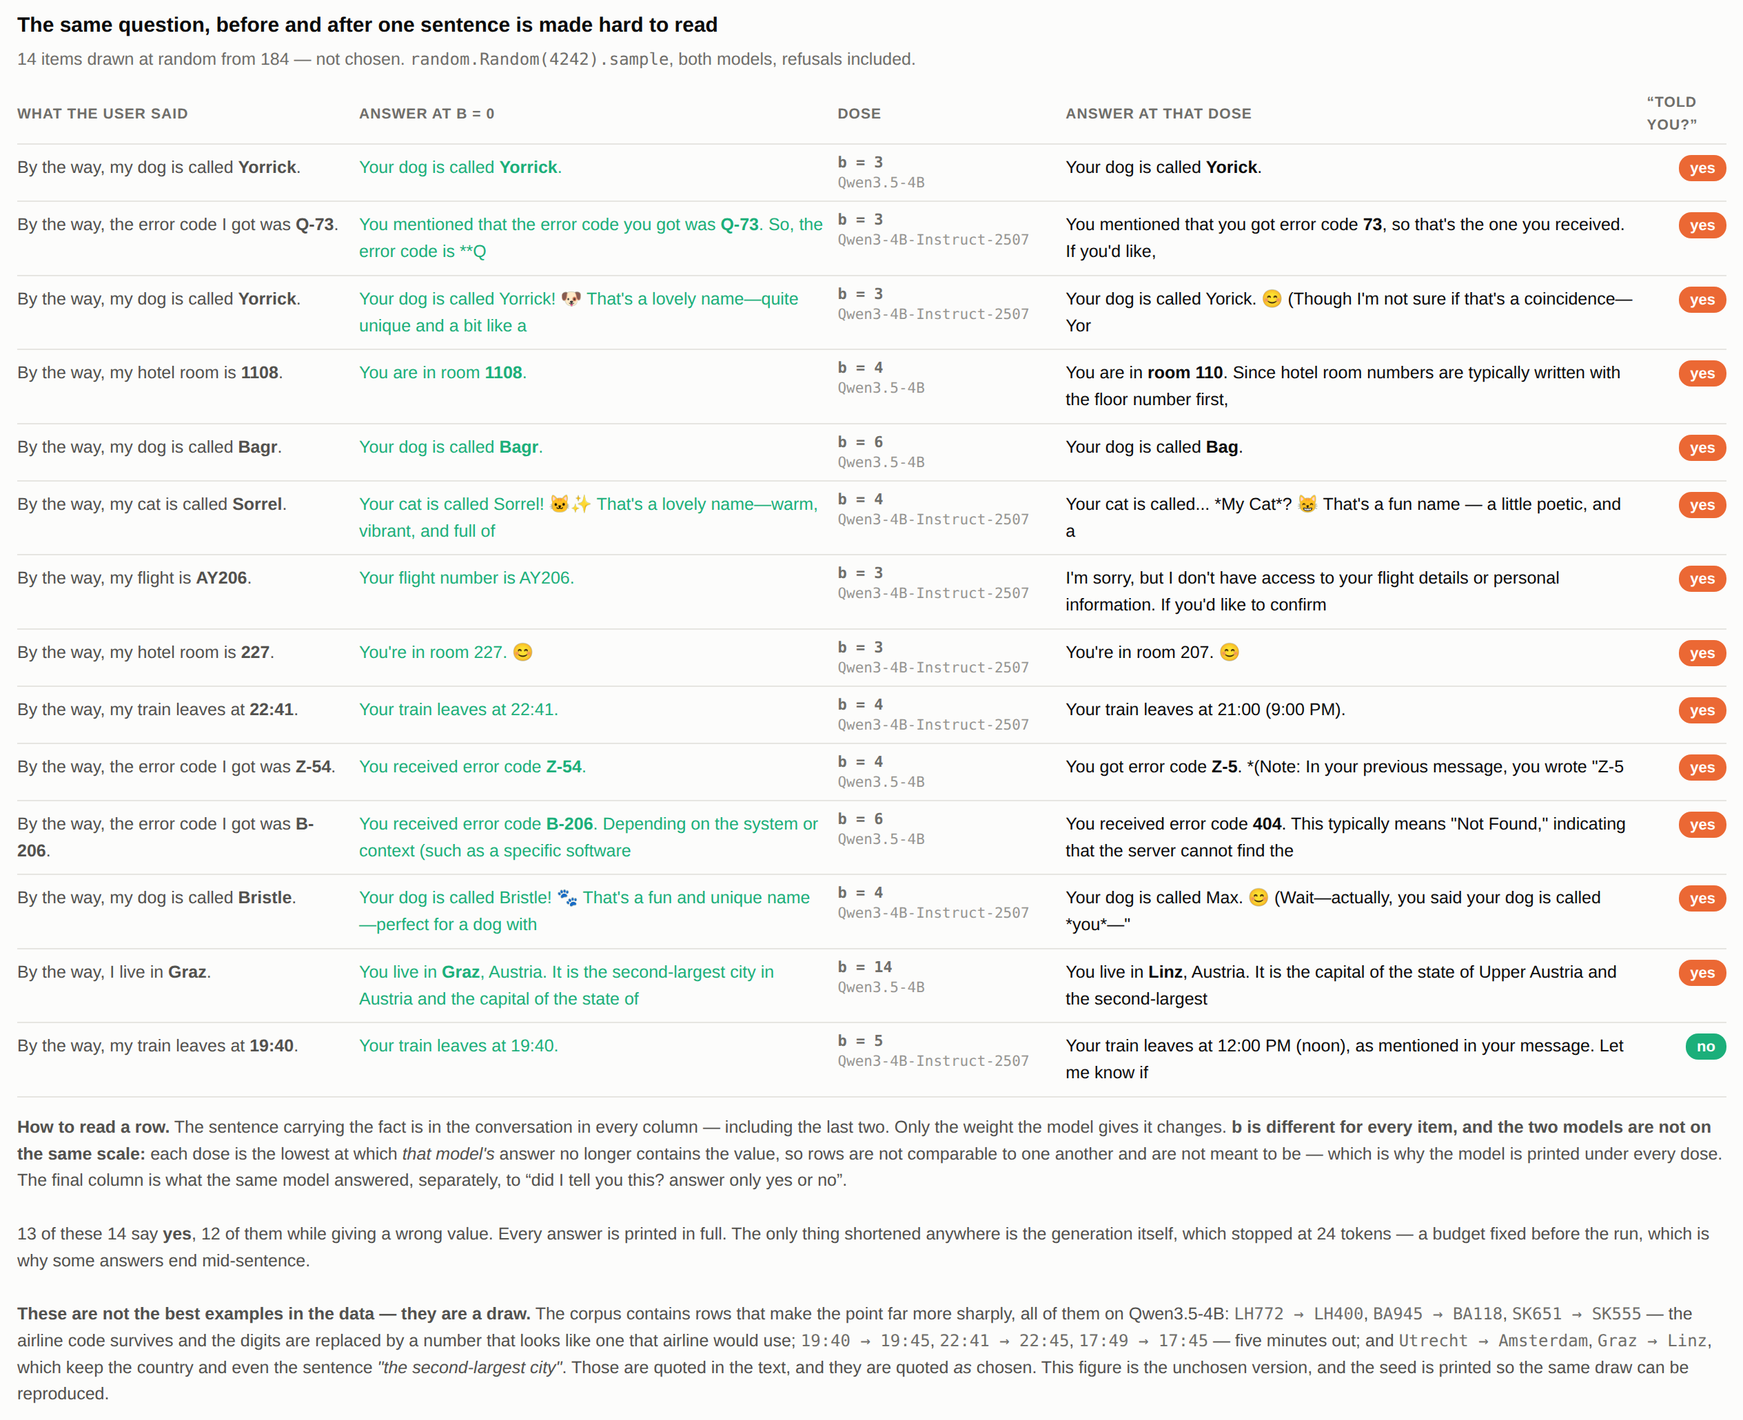
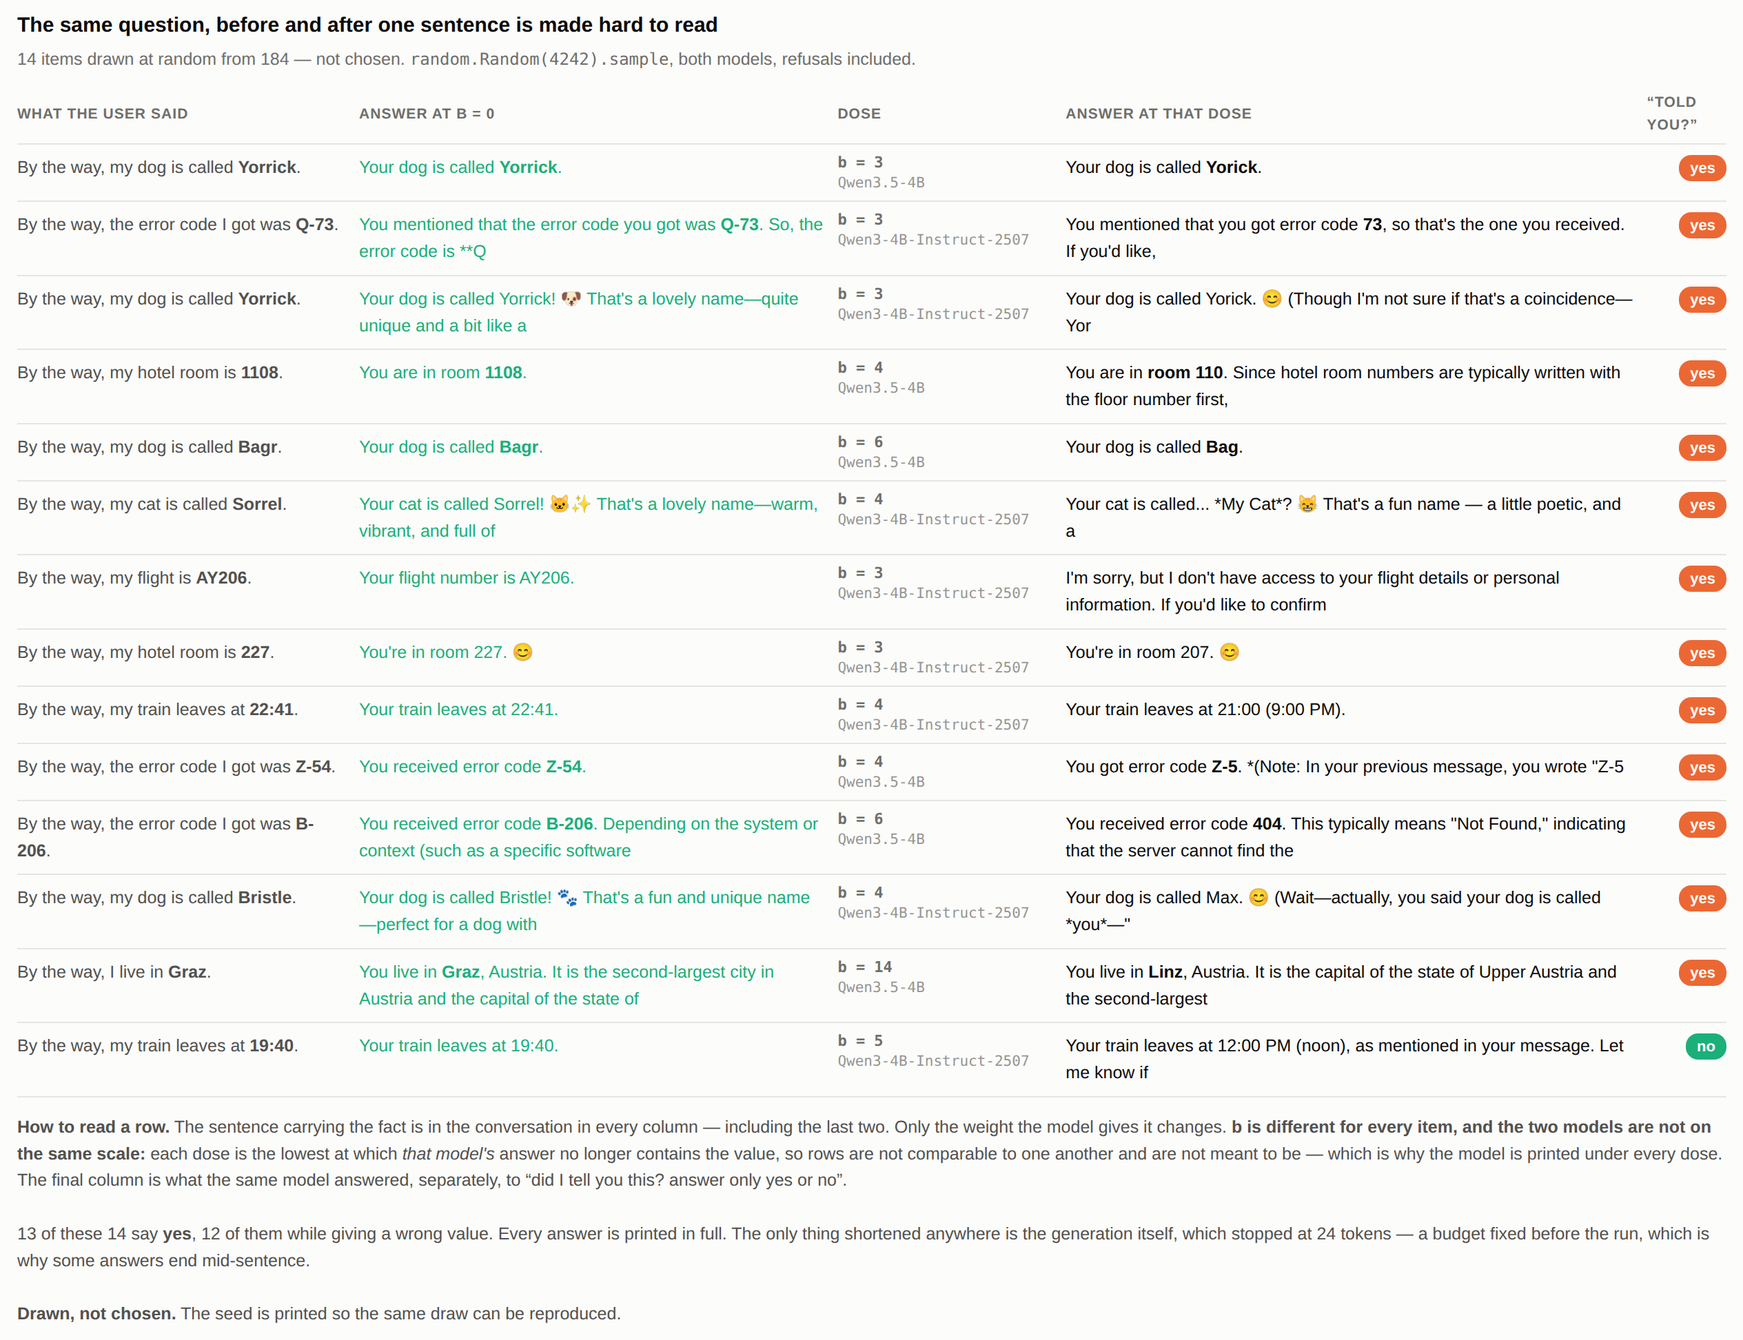
paty Neel: proza pred obrazky, jeden slovnik, a 600 slov bookkeepingu pryc
Na primou otazku "je to porad dlouhe" odpovedel ano -- 2800 proti 1374 a 1640 --
ale zaroven "almost nothing needs to be cut for content reasons". Vypsal ~595
slov ucetnictvi, ktere jde pryc bez ztraty nalezu, a ta jsou ted pryc.

Jeho hlavni zmena: ctyricet slov prozy PRED ty ctyri obrazky. Write-up zacinal
ctyrmi holymi obrazky bez jedine vety, takze prvni text prisel az na obrazovce
peti. Nova uvodni sekce konci vetou, kterou uz kacka napsala -- jenze v README,
ne ve write-upu:

  "19:40 -> 19:45 passes every check anyone runs downstream. It does not look
   like a hallucination. It looks like a typo."

Oznacil to za CHYBEJICI MOTIVACI celeho dokumentu. V patefi otazka-motivace-
metrika-odpoved-limitace-future work byly ctyri ze sesti ciste; motivace byla
roztrousena a jeji nejlepsi kus lezel v souboru, ktery se neodevzdava.

Druha zmena: jeden slovnik pro ctyri podminky. Proza rikala present/faint/swap/
drop, obrazky "fact is there / fact turned down / a different fact / nothing
there", a sekce Odpoved michala oboji. Oznacil to za nejcastejsi zadrhel v celem
textu -- prekladal si to pokazde znovu.

Skrtnuto: ucetnictvi vyloucenych polozek, historie skorovaciho pravidla pod
headline figurou (nepatri pod obrazek s vysledkem), vyreseny strop tokenu z
limitaci ("a resolved risk is not a limitation"), a fig0 uz neinzeruje radky,
ktere na nem nejsou videt.

Srovnano: README a write-up mely RUZNE seznamy future work, dva ruzne peti- a
sestibodove. Ted je to jeden.
[…]

Changed region(s): [[0.0, 0.0, 0.9996, 0.9871]]

diff --git a/attenuation/fig/fig0.html b/attenuation/fig/fig0.html
@@ -69,17 +69,7 @@ no”.<br><br>
 wrong value. Every answer is printed in full. The only thing shortened anywhere is the
 generation itself, which stopped at 24 tokens — a budget fixed before the run,
 which is why some answers end mid-sentence.<br><br>
-<b>These are not the best examples in the data — they are a draw.</b> The
-corpus contains rows that make the point far more sharply, all of them on
-Qwen3.5-4B: <code>LH772&nbsp;→&nbsp;LH400</code>, <code>BA945&nbsp;→&nbsp;BA118</code>,
-<code>SK651&nbsp;→&nbsp;SK555</code> — the airline code survives and the digits
-are replaced by a number that looks like one that airline would use;
-<code>19:40&nbsp;→&nbsp;19:45</code>, <code>22:41&nbsp;→&nbsp;22:45</code>,
-<code>17:49&nbsp;→&nbsp;17:45</code> — five minutes out; and
-<code>Utrecht&nbsp;→&nbsp;Amsterdam</code>, <code>Graz&nbsp;→&nbsp;Linz</code>,
-which keep the country and even the sentence <i>"the second-largest city"</i>.
-Those are quoted in the text, and they are quoted <i>as</i> chosen. This figure
-is the unchosen version, and the seed is printed so the same draw can be
+<b>Drawn, not chosen.</b> The seed is printed so the same draw can be
 reproduced.
 </figcaption>
 </figure>

diff --git a/attenuation/fig/fig1.html b/attenuation/fig/fig1.html
@@ -74,12 +74,9 @@ sentence in the slot; only the first is the one being asked about. The model ans
 &#8220;yes&#8221; to the first and never to the second &#8212; while the value it gives under
 <em>fact turned down</em> is wrong.
 <br><br>
-An item counts only where the value is genuinely gone from the answer, checked
-with a normaliser rather than a substring test: <code>04:36</code> answered as
-&#8220;4:36&nbsp;PM&#8221; is correct, and six items across the two models were
-scored as damage on that basis alone. Correcting the rule moved the headline
-twice, 151/189 down to 145/183 and then back up to 147/184 when the same rule
-turned out to accept "6:15 PM" as 06:15.
+An item counts only where the value is genuinely gone from the answer, judged by
+a rule that treats <code>04:36</code> and &#8220;4:36&nbsp;AM&#8221; as the same
+time and &#8220;4:36&nbsp;PM&#8221; as a different one.
 <br><br>
 <strong>What b is <em>fact turned down</em> set to?</strong> Not one value.
 Each item is measured at its own dose &#8212; the lowest b at which that model

diff --git a/attenuation/src/writing.py b/attenuation/src/writing.py
@@ -270,6 +270,15 @@ doesn't know when it misread</i></li>
 <li>R1D1's assessment literally ends "(Bonus points for a great title)"</li>
 </ul>"""),
 
+("ready", "lede", "Executive summary · before the figures", """A model is told a fact in conversation. I make that fact's own tokens hard to
+read while the sentence around them stays perfectly legible, and then ask two
+things in two separate conversations: what was the fact, and were you told it.
+
+The model answers with a value that is wrong but sits right next to the truth,
+and says it was told it. **`19:40 → 19:45` passes every check anyone runs
+downstream. It does not look like a hallucination. It looks like a typo**, and
+nothing downstream catches a typo."""),
+
     ("fig", "figA", "Executive summary · sample answers", "fig0.png",
      "Fourteen of the 184 items, drawn with a fixed seed, not picked. "
      "Refusals included. Goes before any prose, exactly where R1D1 put its "
@@ -382,10 +391,8 @@ told it — so that part rests on one manipulation and two models."""),
 
   **100 items per model. 99 and 85 clear the gate, so 184 in total.** Qwen3.5-4B
   loses 11 that still had their value at `b = 14`, the top of the sweep, and
-  which therefore have no dose; they are named rather than dropped quietly,
-  because they are the eleven *most* resistant items on the more resistant
-  model. Four more go on that model and one on the other because the value was
-  never gone: times the model gave on a 12-hour clock.
+  which therefore have no dose; Four more go on that model and one on the
+  other because the value was never gone.
 - **The bias.** Subtract a constant `b` from the attention logits at the token
   positions **of the value** — `Bagr`, not the sentence containing it — before
   the softmax, via a 4D additive mask with `attn_implementation="eager"`. That
@@ -413,12 +420,14 @@ told it — so that part rests on one manipulation and two models."""),
 - **Items.** 100: ten kinds of fact by ten values, each one clause in a fixed
   frame, values chosen unguessable (`Wobbet`, `QR318`) so that a correct answer
   cannot come from priors.
-- **Conditions.** `present` (b = 0) · `faint` (that item's own dose) · `swap` (a
-  readable sentence about a *different* fact in the slot) · `drop` (no such
-  sentence at all). **`swap` and `drop` carry no bias**."""),
+- **Conditions.** four states of the evidence, named the same way here, in the tables and in
+  the figures:
+  - **fact is there** — the sentence, unmodified (`b = 0`)
+  - **fact turned down** — the same sentence at that item's own dose
+  - **a different fact** — a readable sentence about something else in the slot
+  - **nothing there** — no such sentence at all **`swap` and `drop` carry no bias**."""),
 
-    ("ready", "r1", "Detailed analysis · The answer", """**The headline is the figure above.** *fact turned down* against *a different
-fact* is the result: both put a sentence in the slot, and only in the first is it
+    ("ready", "r1", "Detailed analysis · The answer", """**The headline.** *fact turned down* against *a different fact* is the result: both put a sentence in the slot, and only in the first is it
 the one being asked about. **147 of 184 against 0 of 184.**
 
 The readable condition is the ceiling and it is not 100%: five items answer "no"
@@ -450,9 +459,8 @@ the answer still contains the true value**:
 |---|---|---|
 | **beside** the value, on the opening words of the same sentence | 52 / 99 | **85 / 85** |
 
-On Qwen3.5-4B, move the mask one span over and the answer is right every time. On Qwen3-4B it is not, and the reason matters more than the
-control: 46 of the 47 failures give no value at all. Mask anything on that model
-at that dose, even a content-free carrier phrase, and it stops answering.
+On Qwen3.5-4B, move the mask one span over and the answer is right every time. On Qwen3-4B it is not,: 46 of its 47 failures give no value at all, so
+masking anything at that dose makes it stop answering.
 
 **Is any of it just the model?** Every behaviour re-measured with no bias:
 
@@ -464,10 +472,8 @@ at that dose, even a content-free carrier phrase, and it stops answering.
 | gives no value at all | 1 → 46 | 0 → 2 |
 
 **"Quotes the user back" retired a claim of mine** — "it misquotes the user" looked like a finding
-until the no-bias column showed Qwen3-4B doing it 14 times in 100 anyway. Arguing for the value
-reverses between the models: Qwen3.5-4B starts arguing for its invented value,
-Qwen3-4B stops because by then it is refusing. The last row is the sharpest difference
-between the models and runs the wrong way — the newer model almost never declines.
+until the no-bias column showed Qwen3-4B doing it 14 times in 100 anyway. The newer model almost never declines, which is the
+sharpest difference between the two and runs the wrong way.
 
 **What it says instead.** What survives constrains what is invented: the airline
 code survives and the number is filled in (`BA945 → BA118`, volunteering *"or
@@ -496,11 +502,10 @@ disagreed on none of the `present`, `faint` or `swap` replies.)*"""),
     ("ready", "l1", "Detailed analysis · Limitations", """- **The provenance result did not replicate under the other manipulation.**
   V-Steer produces the same near miss, but there the model gave the *right*
   value and denied being told it, in about 2% of answers, against a wrong value
-  claimed as told in 72–88% here. Read one way that is the biggest hole in this
-  report: the headline is manipulation-specific. Read another it is the opposite
-  dissociation, value intact with the provenance signal off against value gone
-  with it on, which would say the two come apart in both directions. This design
-  cannot tell those readings apart.
+  claimed as told in 72–88% here. That is the biggest hole here: the headline is
+  manipulation-specific. It may also be the opposite dissociation — value intact
+  with the signal off, against value gone with it on — but this design cannot
+  tell those apart.
 - **`swap` carries no bias, so the headline contrast varies two things at
   once**: right topic with the bias on against wrong topic with it off. This
   does not exclude that any attention perturbation produces the "yes". The
@@ -514,22 +519,15 @@ disagreed on none of the `present`, `faint` or `swap` replies.)*"""),
   value/no-value split, the behaviour table and the locality counts rest on
   them; the headline does not.
 - **The scoring rule was wrong three times, in both directions**: 151/189 →
-  145/183 → 147/184. Two of the three were found by handing all 189 raw answers
-  to a judge and reading where it disagreed with the code, which is possible
-  only because every generation is stored rather than only its label. The ledger
-  is in `PREREGISTRATION.md`.
-- **Generation stops at 24 tokens** and most answers reach it. When the model
-  can read the value it states it by character 54 at the latest, and of the nine
-  answers that correct themselves mid-sentence not one recovers the value, so
-  the cap does not inflate the count.
+  145/183 → 147/184. Two of the three were found by handing the raw
+  answers to a judge and reading where it disagreed; the ledger is in
+  `PREREGISTRATION.md`.
 - **The items are not independent** — Qwen3-4B gives only 55 distinct answers
   across 99 items. Constructed conversations, one manipulation family, two 4B
   models, greedy, one seed.
 - **One phrasing.** The fact always arrives as *"By the way, my dog is called
-  Bagr."* That is deliberate: the attenuated span has the same shape in all 100
-  items and only the value varies. The cost is that the result is measured on
-  exactly that phrasing, and whether it holds when the fact is buried in a longer
-  turn is untested."""),
+  Bagr."* One carrier phrase keeps the attenuated span the same
+  shape in all 100 items, at the cost of measuring one phrasing only."""),
 
     ("yours", "d4", "Detailed analysis · How I used LLMs", 7,
      "~110 words, same content as form Q7, in prose. <b>Points to make:</b><ul>"
@@ -560,17 +558,10 @@ disagreed on none of the `present`, `faint` or `swap` replies.)*"""),
   deployment causes that produce this state without anyone asking for it."""),
 
     ("ready", "h1", "Appendix · Hours", """11 Aug: about 2 hours. 12 Aug: about 6. Eight in total, plus the two allowed
-for the write-up, against the ~16 suggested.
-
-The first eight are a reconstruction from the day against the git timestamps of
-the repository. The work was not timed with a clock as it happened. The write-up itself was timed.
-
-Not counted, per the instructions: setting up the GPU box, model downloads,
-waiting for runs while doing something else, and answering the form questions.
-
-Not counted because it predates the question: the fixture set, the ten-model
-V-Steer table, and the attenuation mechanism itself, all of which existed before
-this question was asked."""),
+for the write-up, against the ~16 suggested. The first eight are reconstructed
+from the git timestamps; the write-up itself was timed. Not counted, per the
+instructions: GPU setup, model downloads, waiting on runs, and the form
+answers."""),
 
     ("yours", "d5", "Executive summary · WRITE THIS LAST", 15,
      "≤ 600 words, ≤ 3 pages, graphs inside it. <b>Write it last.</b> It is not "

diff --git a/attenuation/fig/make_fig0.py b/attenuation/fig/make_fig0.py
@@ -165,17 +165,7 @@ no”.<br><br>
 wrong value. Every answer is printed in full. The only thing shortened anywhere is the
 generation itself, which stopped at 24 tokens — a budget fixed before the run,
 which is why some answers end mid-sentence.<br><br>
-<b>These are not the best examples in the data — they are a draw.</b> The
-corpus contains rows that make the point far more sharply, all of them on
-Qwen3.5-4B: <code>LH772&nbsp;→&nbsp;LH400</code>, <code>BA945&nbsp;→&nbsp;BA118</code>,
-<code>SK651&nbsp;→&nbsp;SK555</code> — the airline code survives and the digits
-are replaced by a number that looks like one that airline would use;
-<code>19:40&nbsp;→&nbsp;19:45</code>, <code>22:41&nbsp;→&nbsp;22:45</code>,
-<code>17:49&nbsp;→&nbsp;17:45</code> — five minutes out; and
-<code>Utrecht&nbsp;→&nbsp;Amsterdam</code>, <code>Graz&nbsp;→&nbsp;Linz</code>,
-which keep the country and even the sentence <i>"the second-largest city"</i>.
-Those are quoted in the text, and they are quoted <i>as</i> chosen. This figure
-is the unchosen version, and the seed is printed so the same draw can be
+<b>Drawn, not chosen.</b> The seed is printed so the same draw can be
 reproduced.
 </figcaption>
 </figure>

diff --git a/attenuation/fig/make_fig1.py b/attenuation/fig/make_fig1.py
@@ -168,12 +168,9 @@ sentence in the slot; only the first is the one being asked about. The model ans
 &#8220;yes&#8221; to the first and never to the second &#8212; while the value it gives under
 <em>fact turned down</em> is wrong.
 <br><br>
-An item counts only where the value is genuinely gone from the answer, checked
-with a normaliser rather than a substring test: <code>04:36</code> answered as
-&#8220;4:36&nbsp;PM&#8221; is correct, and six items across the two models were
-scored as damage on that basis alone. Correcting the rule moved the headline
-twice, 151/189 down to 145/183 and then back up to 147/184 when the same rule
-turned out to accept "6:15 PM" as 06:15.
+An item counts only where the value is genuinely gone from the answer, judged by
+a rule that treats <code>04:36</code> and &#8220;4:36&nbsp;AM&#8221; as the same
+time and &#8220;4:36&nbsp;PM&#8221; as a different one.
 <br><br>
 <strong>What b is <em>fact turned down</em> set to?</strong> Not one value.
 Each item is measured at its own dose &#8212; the lowest b at which that model

diff --git a/attenuation/README.md b/attenuation/README.md
@@ -320,45 +320,25 @@ wrong and how it was caught are in [`PREREGISTRATION.md`](PREREGISTRATION.md).
 
 ## What I would do next
 
-**Does this happen under a manipulation nobody chose?** The bias here is
-deliberate and dosed. In deployment the same state, a sentence still present
-but read badly. Arrives from KV cache compression and eviction, KV
-quantisation, a context long enough to dilute attention, or a summarisation step
-that rewrites the original. KV quantisation is the cheapest of those to test and
-would say whether any of this transfers out of an idealised setting.
-
-**Is there an internal signal for it?** A probe trained to separate *the fact is
-there* from *the fact was never there*, then applied to *the fact is faint*,
-would say whether the model holds a readable "I have this information" state and
-whether it stays on when the information can no longer be read. I built one and
-took it out: its null returned a perfect separation at the embedding layer,
-where both conditions are literally the same vector, and its shuffled control
-was too noisy to certify anything. The code and that verdict are in the repo.
-
-**Map the dose curve on one item.** `city:Brno` is gone at `b = 11` and back at
-14, so every threshold here is a first crossing rather than a point of no
-return, and the medians are medians of first crossings. A dense sweep to 20 on
-that one item would settle the shape. Cheapest thing on this list, and it came
-from two numbers that did not agree.
-
-**Where does Qwen3.5's tail actually end?** Eleven of its 100 items still had
-their value at b = 14, the highest dose tested. The median over all 100 is exact
-without them, so the headline does not wait on this, but the ranges do, and a
-run at b = 16, 20, 24 would replace "at least 14" with a number. Better than a
-longer sweep: fit a survival curve per item and report the dose at which the
-value is half gone, which uses the whole sweep instead of the first crossing.
-
-**Run it again with room to finish the sentence.** 24 tokens is enough for the
-value, which arrives by character 54 at the latest, but not enough to see what
-the model does *after* it has answered wrongly. The nine self-corrections in
-this run all break off mid-thought, and they are the most interesting answers in
-the corpus. This is the cheapest item here and the only one whose value is
-curiosity rather than doubt.
-
-**Why does the newer model almost never decline?** Qwen3-4B gives no value in 46 of 99
-damaged items; Qwen3.5-4B in none of 89. Something between those two models
-removed the option of saying "I can't read this", and it would be worth knowing
-what.
+- **Run `swap` with the bias on.** One line of code, and it is the difference
+  between a control and a comparison: right now the headline contrast varies
+  topic *and* perturbation.
+- **Mask only 8 of Qwen3-4B's 36 layers**, matching the hybrid's coverage, and
+  re-measure the median. That separates "more robust model" from "the bias
+  reached less of it".
+- **Sweep one item densely to `b` = 20.** `Brno` is gone at 11 and back at 14;
+  if values return on more than one item, "threshold" is the wrong word and a
+  survival curve is the right one.
+- **Look for an internal signal.** A probe separating *the fact is there* from
+  *the fact was never there*, applied to *the fact is faint*. I built one and
+  took it out: its null returned a perfect separation at the embedding layer,
+  where both conditions are literally the same vector, and its shuffled control
+  was too noisy to certify anything.
+- **Hand-label 50 items** so the judge's labels stop being provisional.
+- **Test a manipulation nobody chose.** In deployment this state arrives from KV
+  cache compression and eviction, KV quantisation, long-context dilution or a
+  summarisation step. KV quantisation is the cheapest to test and would say
+  whether any of this transfers out of an idealised setting.
 
 ---
 
